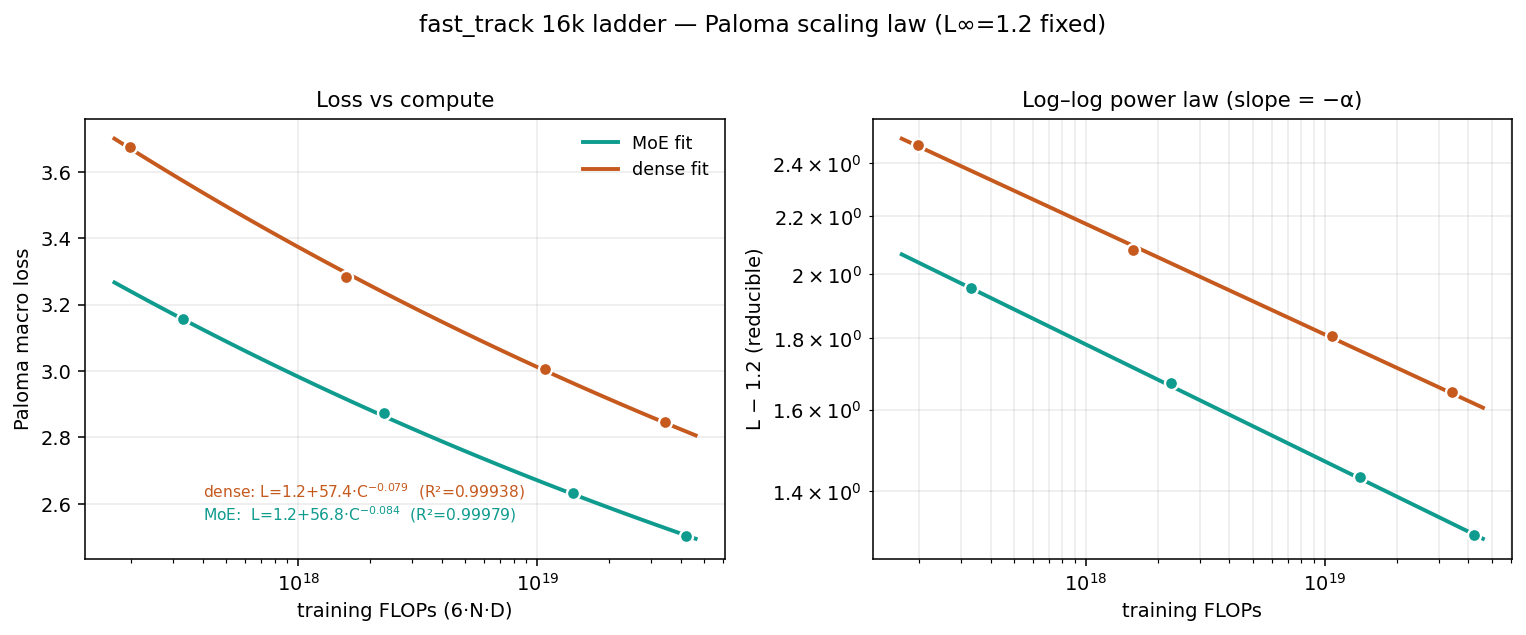
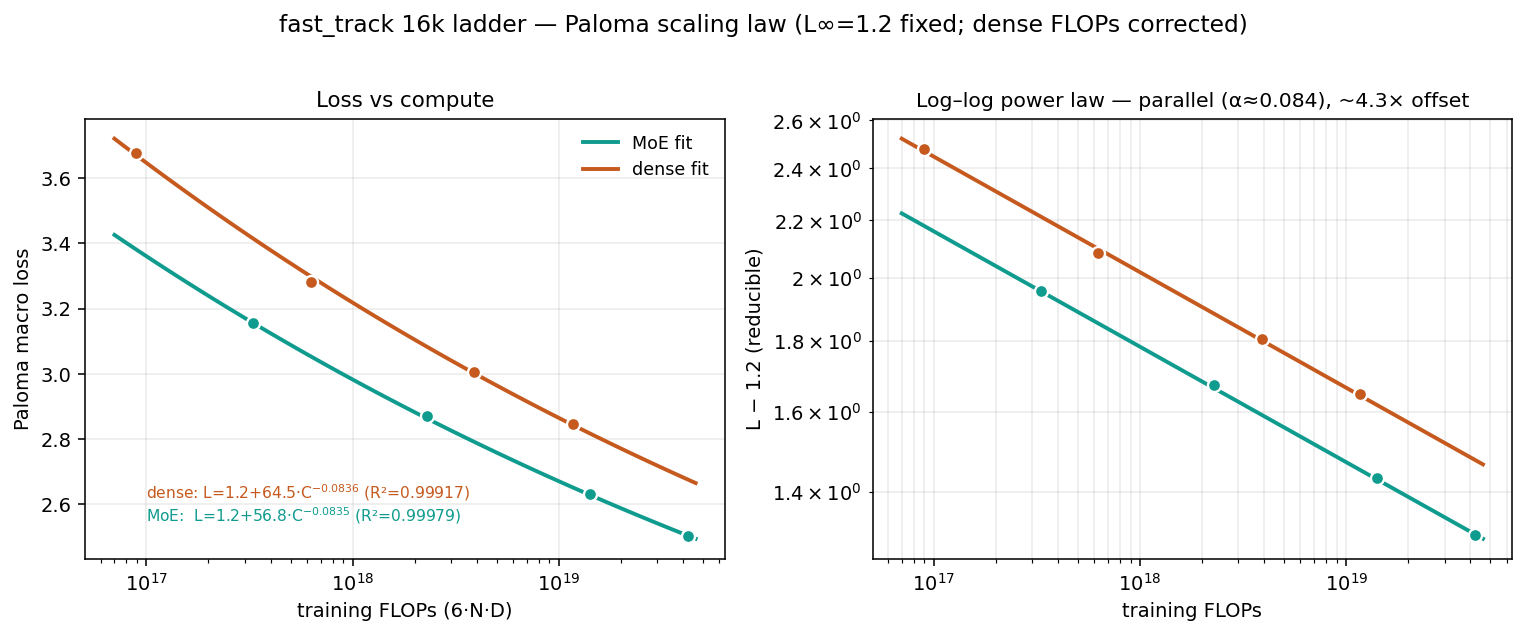
[grug] fast_track: fix dense FLOP/MFU accounting (was MoE-priced), correct scaling law
_compute_flops priced the dense MLP as an 8-expert-plus-shared MoE, overcounting dense FLOPs ~2x -> inflated dense MFU (35-83% -> corrected 16-28%) and dense scaling-law compute. Branch on dense_mlp: dense is one GLU MLP (no experts/shared/latent). With corrected compute, dense and MoE share the same exponent (alpha~0.084) and MoE is a ~constant 4.3x compute-efficiency win, not 10-13x widening. README table + scaling law + plot updated.

diff --git a/experiments/grug/fast_track/train.py b/experiments/grug/fast_track/train.py
@@ -337,6 +337,34 @@ def _compute_flops(
     *,
     model_config: GrugModelConfig,
 ) -> tuple[float, dict[str, float]]:
+    # The dense variant runs a single GLU MLP of width `intermediate_dim` per layer -- no routed or
+    # shared experts and no latent. Pricing it with the MoE terms (top-k + shared experts) overcounts
+    # its FLOPs ~2x, which would inflate both its reported MFU and its scaling-law compute.
+    if model_config.dense_mlp:
+        dense_flops_per_token = lm_flops_per_token(
+            hidden_dim=model_config.hidden_dim,
+            intermediate_dim=model_config.intermediate_dim,
+            shared_intermediate_dim=0,
+            num_layers=model_config.num_layers,
+            num_kv_heads=model_config.num_kv_heads,
+            num_heads=model_config.num_heads,
+            seq_len=model_config.max_seq_len,
+            vocab_size=model_config.vocab_size,
+            glu=True,
+            num_experts=1,
+            num_shared_experts=0,
+            num_experts_per_tok=1,
+            sliding_window=model_config.sliding_window,
+            global_every=model_config.global_every,
+            local_kv_heads=model_config.local_kv_heads,
+            global_kv_heads=model_config.global_kv_heads,
+        )
+        dense_flops_per_example = 3 * dense_flops_per_token * model_config.max_seq_len
+        return dense_flops_per_example, {
+            "throughput/flops_per_token_analytic": dense_flops_per_token,
+            "throughput/flops_per_example_analytic": dense_flops_per_example,
+        }
+
     flops_per_token = lm_flops_per_token(
         hidden_dim=model_config.hidden_dim,
         intermediate_dim=model_config.intermediate_dim,

diff --git a/experiments/grug/fast_track/README.md b/experiments/grug/fast_track/README.md
@@ -28,14 +28,19 @@ mean. Both loss (Paloma macro cross-entropy) and bpb (macro bits-per-byte) are l
 
 | size | variant | TPP | steps | tokens | FLOPs | MFU | Paloma loss | Paloma bpb | uncheat bpb | runtime |
 |------|---------|----:|------:|-------:|------:|----:|------------:|-----------:|------------:|--------:|
-| d512  | dense | 20 |    690 | 0.36B | 2.0e17 | 34.9% | 3.676 | 1.520 | 1.243 | 3.7m |
+| d512  | dense | 20 |    690 | 0.36B | 9.0e16 | 15.8% | 3.676 | 1.520 | 1.243 | 3.7m |
 | d512  | moe   | 60 |  2,385 | 1.25B | 3.3e17 |  7.8% | 3.156 | 1.308 | 1.008 | 14.0m |
-| d768  | dense | 20 |  2,040 | 1.07B | 1.6e18 | 51.1% | 3.283 | 1.361 | 1.063 | 9.2m |
+| d768  | dense | 20 |  2,040 | 1.07B | 6.3e17 | 20.2% | 3.283 | 1.361 | 1.063 | 9.2m |
 | d768  | moe   | 60 |  6,930 | 3.63B | 2.3e18 | 10.3% | 2.872 | 1.193 | 0.888 | 54.4m |
-| d1024 | dense | 20 |  2,760 | 2.89B | 1.1e19 | 73.6% | 3.006 | 1.248 | 0.945 | 34.8m |
+| d1024 | dense | 20 |  2,760 | 2.89B | 3.9e18 | 26.7% | 3.006 | 1.248 | 0.945 | 34.8m |
 | d1024 | moe   | 60 |  9,270 | 9.72B | 1.4e19 | 13.9% | 2.633 | 1.096 | 0.793 | 3.8 hr |
-| d1280 | dense | 20 |  4,988 | 5.23B | 3.4e19 | 83.3% | 2.847 | 1.183 | 0.881 | 1.5 hr |
+| d1280 | dense | 20 |  4,988 | 5.23B | 1.2e19 | 28.4% | 2.847 | 1.183 | 0.881 | 1.5 hr |
 | d1280 | moe   | 60 | 16,669 | 17.5B | 4.2e19 | 15.4% | 2.504 | 1.044 | 0.741 | 10.0 hr |
+
+Dense FLOPs/MFU were previously overstated ~2× because the analytic FLOP counter priced the dense MLP
+as an 8-expert-plus-shared MoE; fixed in `train.py::_compute_flops`. Corrected here, dense runs at
+roughly 2× MoE's MFU (not 4–5×), and dense/MoE are matched on active params (~1.1×; the MoE's total is
+13–17× larger by design — 384 experts, top-8 active).
 
 ## Tokenizer impact (16k vs 128k)
 
@@ -64,18 +69,19 @@ the irreducible floor pinned at **L∞ = 1.2** (a prior — the ladder never nea
 | variant | fit | R² | α |
 |---------|-----|---:|--:|
 | MoE   | `L = 1.2 + 56.76·C^(−0.0835)` | 0.99979 | 0.0835 |
-| dense | `L = 1.2 + 57.43·C^(−0.0790)` | 0.99938 | 0.0790 |
+| dense | `L = 1.2 + 64.53·C^(−0.0836)` | 0.99917 | 0.0836 |
 
 ![Paloma scaling law](scaling_law.png)
 
-With a shared floor the amplitudes nearly coincide (A ≈ 57), so the dense-vs-MoE gap is entirely the
-exponent: MoE improves faster and stays below dense at every compute. **Compute efficiency:** the MoE
-recipe (60 TPP) reaches the same Paloma loss as the compute-optimal dense recipe (20 TPP) with **~10×
-less compute at the top of the ladder, ~13× at the d1280 loss (2.85)**, rising toward ~15–17× as loss
-falls. This is a recipe-vs-recipe comparison — dense is at its compute-optimal 20 TPP, MoE at 60 TPP —
-so it bundles the architecture gain with the 3× longer MoE token schedule and is not an iso-TPP
-architecture measurement. Caveat: with the floor fixed, two free parameters (A, α) fit four points;
-trust α and the ordering, not the L∞ value or extrapolations far past ~5e19 FLOPs.
+With a shared floor the two exponents are essentially identical (α ≈ 0.084 for both), so dense and MoE
+scale **in parallel** and the gap is a constant amplitude offset (A: 64.5 dense vs 56.8 MoE).
+**Compute efficiency:** the MoE recipe (60 TPP) reaches the same Paloma loss as the compute-optimal
+dense recipe (20 TPP) with **~4.3× less compute, roughly constant across the ladder** (parallel lines,
+so the multiple does not widen with scale). This is a recipe-vs-recipe comparison — dense at its
+compute-optimal 20 TPP, MoE at 60 TPP — so it bundles the architecture gain with the 3× longer MoE
+token schedule and is not an iso-TPP architecture measurement. Caveat: with the floor fixed, two free
+parameters (A, α) fit four points; trust α and the ordering, not the L∞ value or extrapolations far
+past ~5e19 FLOPs.
 
 ## Launch commands
 
